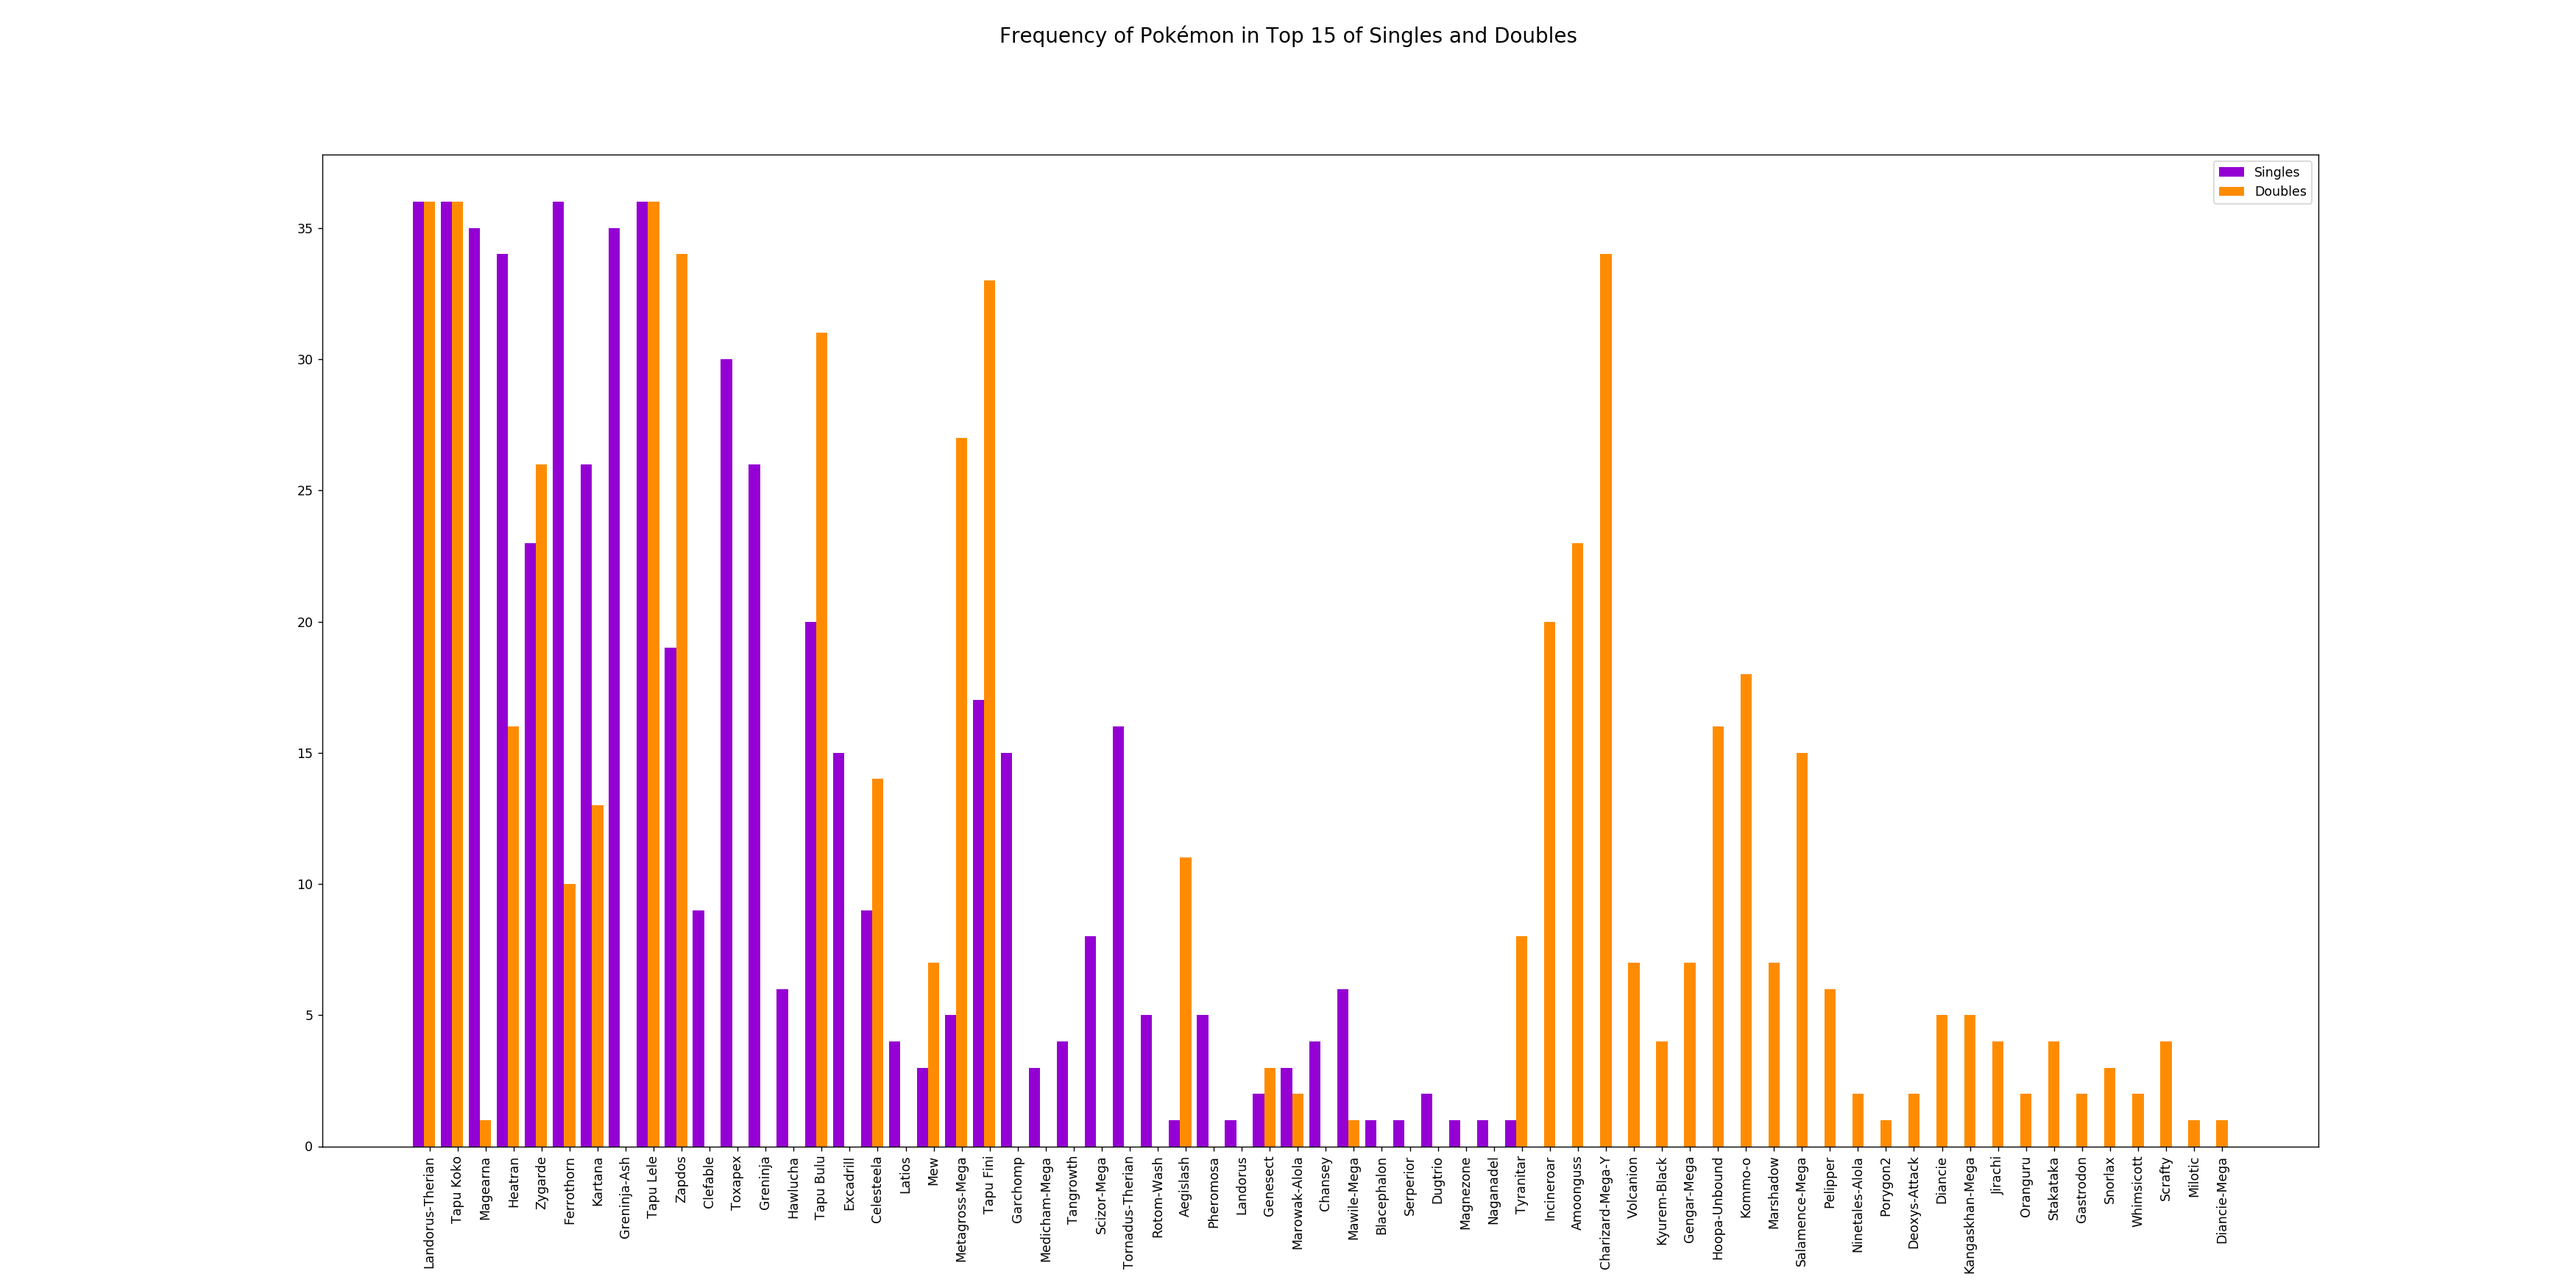
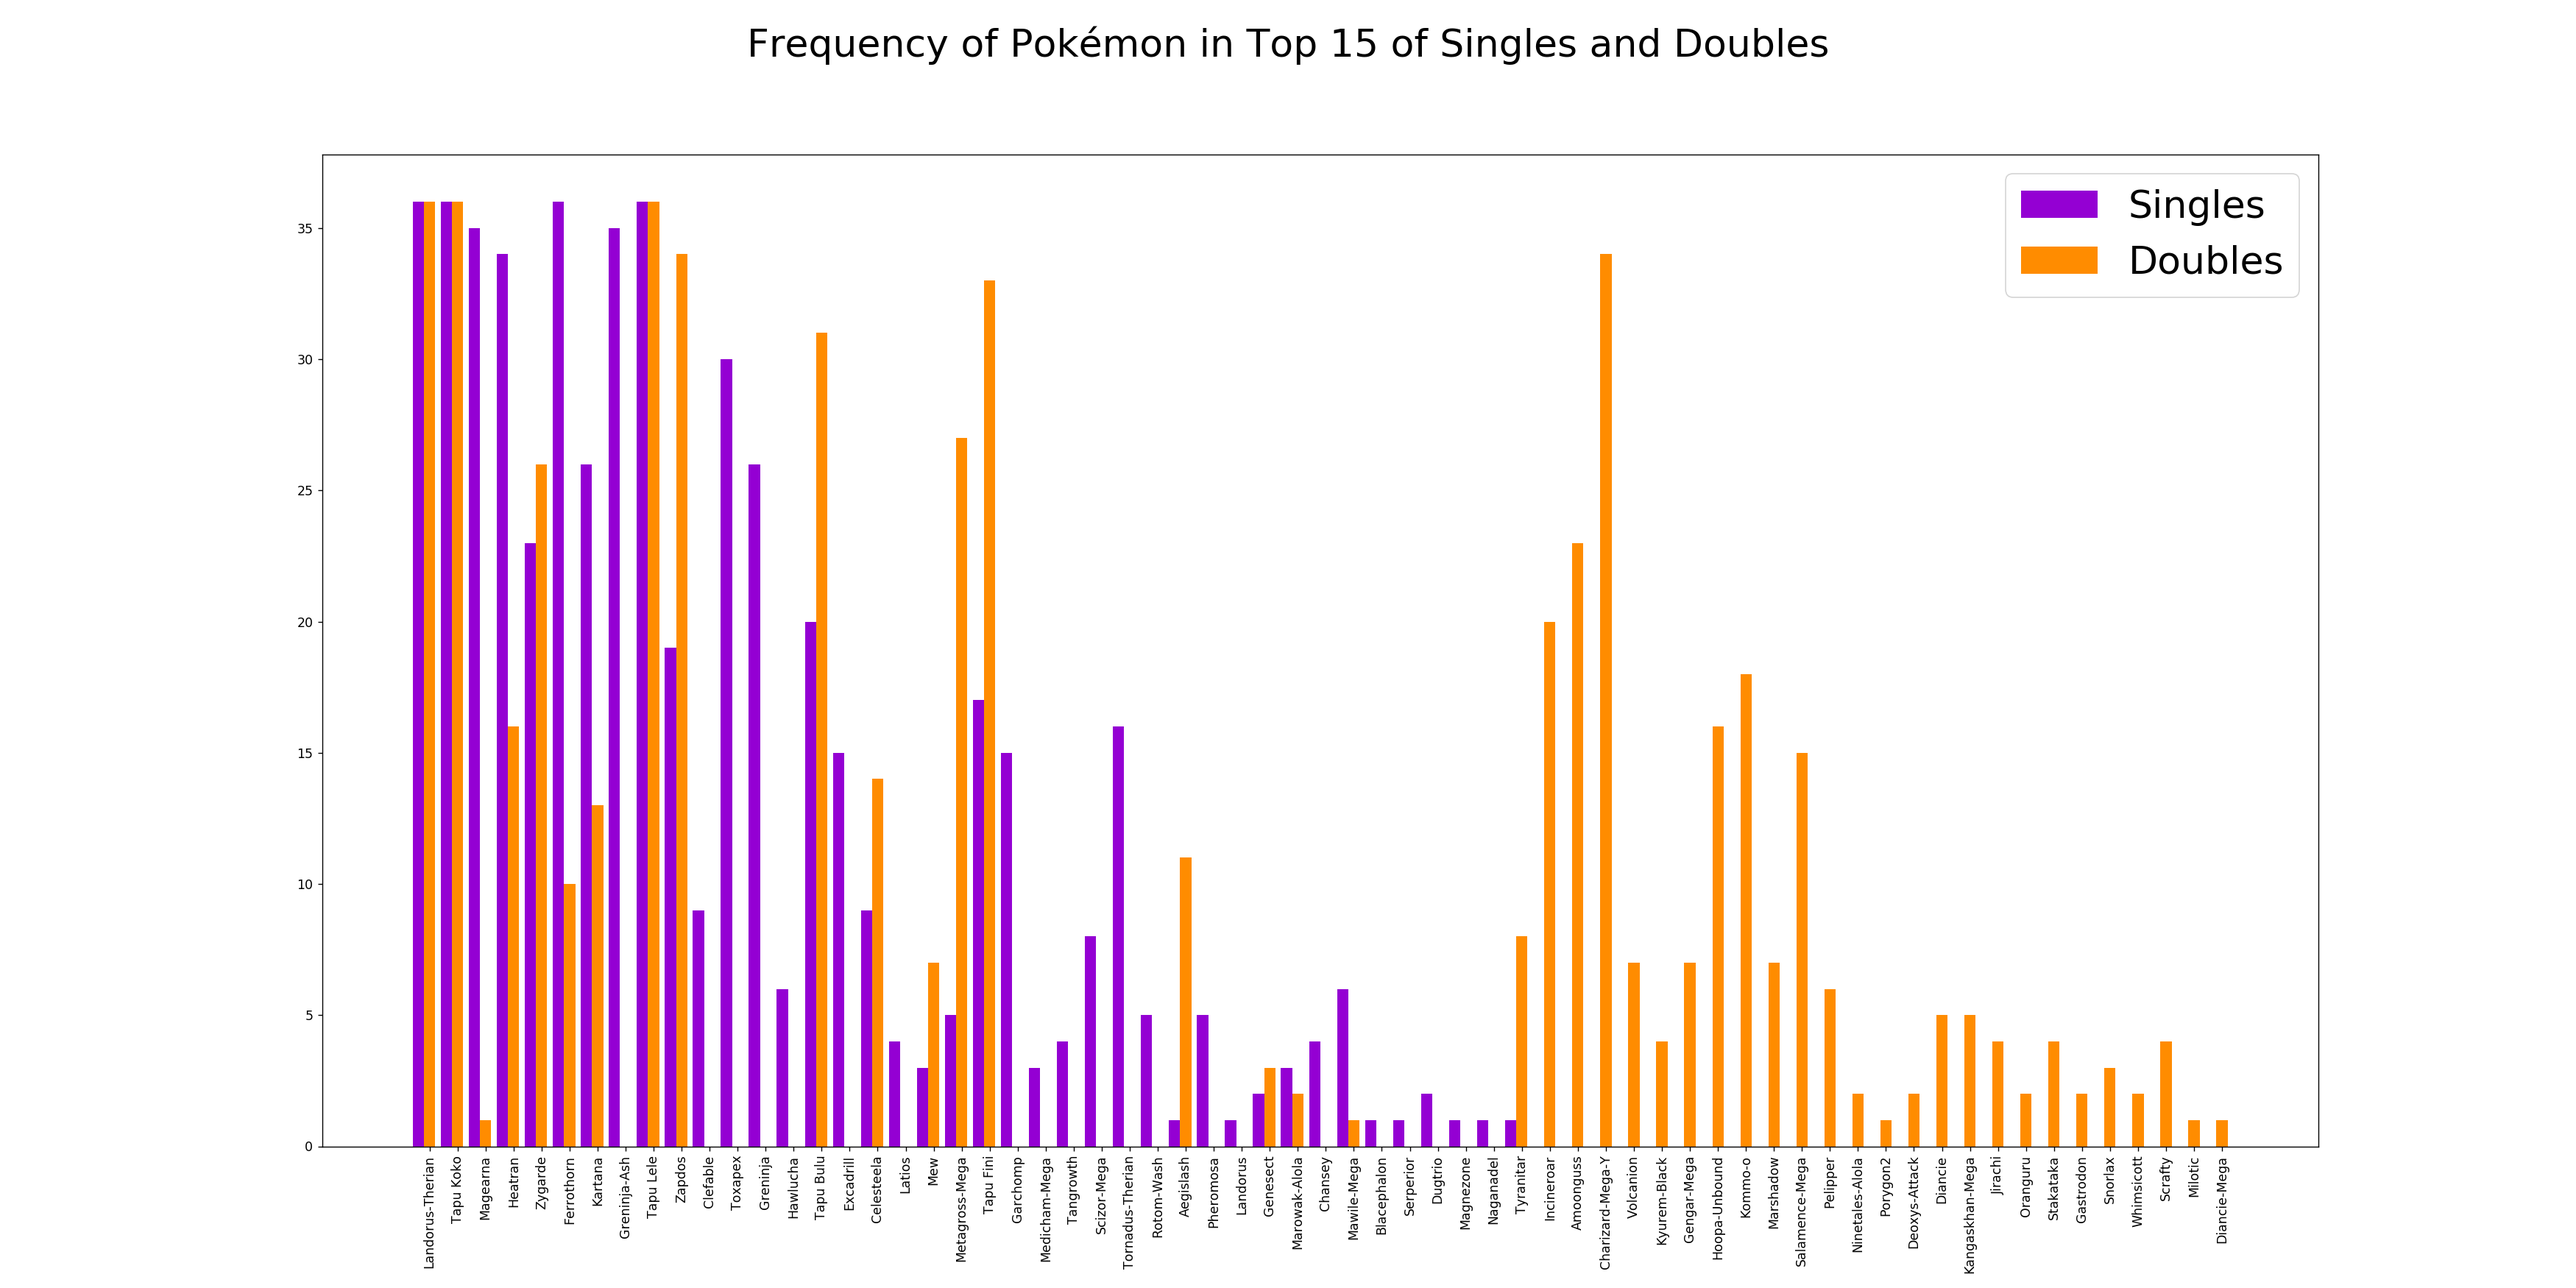
I was wrong

Changed region(s): [[0.2803, 0.0, 0.7163, 0.0617], [0.7786, 0.1234, 0.9031, 0.216]]

diff --git a/src/frequency_plot.py b/src/frequency_plot.py
@@ -35,13 +35,13 @@ def make_bar(singles_path, doubles_path, save_path):
     width = 0.4
 
     fig, ax = plt.subplots(figsize=(28,14))
-    fig.suptitle('Frequency of Pokémon in Top 15 of Singles and Doubles', fontsize=16)
+    fig.suptitle('Frequency of Pokémon in Top 15 of Singles and Doubles', fontsize=30)
     ax.bar(ind-width, singles, width, color='darkviolet', label='Singles')
     ax.bar(ind, doubles, width, color='darkorange', label='Doubles')
     ax.set_xticks(ticks=range(N))
     ax.set_xticklabels(keys)
-    ax.legend(loc='best')
-    plt.xticks(rotation=90)
+    ax.legend(loc='best', prop={'size': 30})
+    plt.xticks(fontsize=10, rotation=90)
     fig.savefig(save_path, dpi=125)
     plt.close('all')
 

diff --git a/src/variety_plot.py b/src/variety_plot.py
@@ -20,7 +20,7 @@ def make_plot(singles_path, doubles_path, save_path, months):
     singles = sort_variety(singles_path, months)
     doubles = sort_variety(doubles_path, months)
     fig, (ax1, ax2) =  plt.subplots(ncols=2, sharey=True, figsize=(28,8))
-    fig.suptitle('Number of Viable Pokémon Between Singles and Doubles', fontsize=16)
+    fig.suptitle('Number of Viable Pokémon Between Singles and Doubles', fontsize=30)
     ax1.scatter(months, singles)
     ax1.set_title('Singles')
     ax2.scatter(months, doubles)
